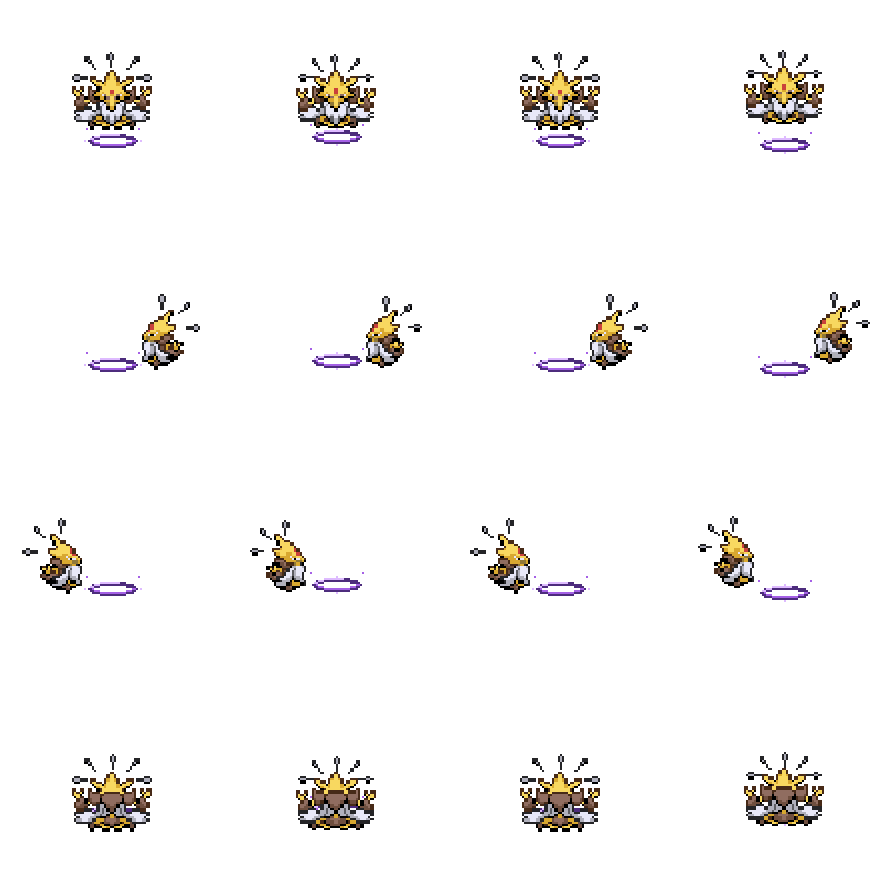
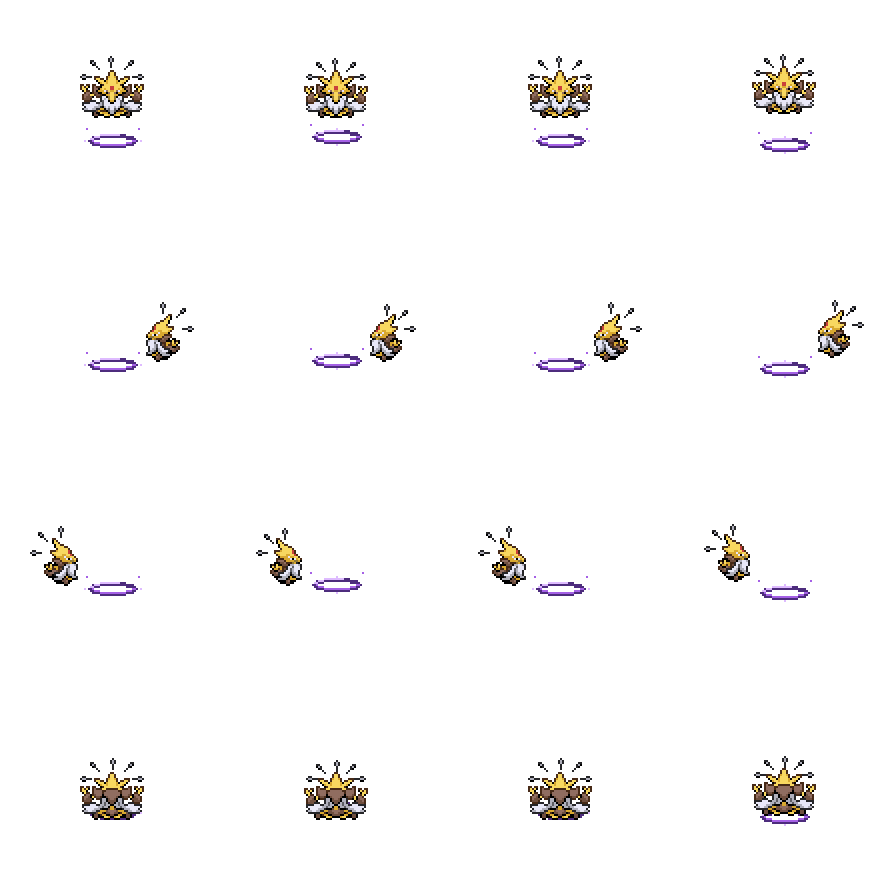
Restore Mega Alakazam mount to original sprite scale

diff --git a/tools/build_mega_alakazam_mount.py b/tools/build_mega_alakazam_mount.py
@@ -1,4 +1,4 @@
-"""Build the smaller Mega Alakazam with the approved seated/levitating pose.
+"""Build original-size Mega Alakazam with the approved seated/levitating pose.
 
 The supplied source and unchanged player ride pose use exact 2x pixels.
 Only the creature and psychic support are baked into runtime sheets.
@@ -13,14 +13,14 @@ from import_player_layered_sprites import write_texture_import
 ROOT = Path(__file__).resolve().parents[1]
 ASSETS = ROOT / "assets/mounts/mega_alakazam"
 FRAME = 112
-CREATURE_SIZE = 40
+CREATURE_SIZE = 32
 NEAREST = Image.Resampling.NEAREST
 DIRECTIONS = ("down", "left", "right", "up")
 # Center the unchanged 32px logical player frame in every direction. The
 # player's normal ground position anchors the rig; Alakazam and the ring move
-# around it. These translations retain the approved creature/rider spacing.
+# around it. Keep the creature centered and its rear head at the approved height.
 RIDER_POS = ((40, 40),) * 4
-MOUNT_POS = ((36, 26), (63, 34), (9, 34), (36, 41))
+MOUNT_POS = ((40, 28), (67, 38), (13, 38), (40, 43))
 
 
 def build() -> None:
@@ -38,6 +38,7 @@ def build() -> None:
             normalized.alpha_composite(original, (0, -2 if col % 2 else 0))
             assert normalized.getchannel("A").histogram()[255] == original.getchannel("A").histogram()[255]
             sprite = normalized.resize((CREATURE_SIZE, CREATURE_SIZE), NEAREST)
+            assert sprite.tobytes() == normalized.tobytes(), "Retain the original creature pixel grid."
             creature = Image.new("RGBA", (FRAME, FRAME))
             mx, my = MOUNT_POS[row]
             mount_bob = round(math.sin(phase * math.tau / 16))

diff --git a/assets/mounts/mega_alakazam/README.md b/assets/mounts/mega_alakazam/README.md
@@ -1,24 +1,24 @@
 # Mega Alakazam levitation mount
 
 Based on the supplied source sheet and approved seated levitation concept.
-Alakazam is now 40 logical pixels (80 physical pixels), down from 56/112,
-approximately 29% smaller. The player's exact 64×64 ride assets are retained.
+Alakazam uses the original 32 logical pixels (64 physical pixels), with no
+fractional scaling or uneven pixel blocks. The player's exact 64×64 ride assets are retained.
 The player's normal foot origin anchors every direction. Alakazam, the ring
-and rear mask are positioned around that origin, preserving the approved
-relative composition and the lower rear head position. Only the hover and
+and rear mask are positioned around that origin, retaining the creature's
+horizontal centers and the lower rear head position. Only the hover and
 small vertical animation bob lift the rider; turning never shifts them sideways.
 
 `source.png` is the user-supplied 512×256 sheet. Only the first four columns
 are used. `tools/build_mega_alakazam_mount.py` reproduces the three 896×896
 runtime sheets, with four directions and four 224×224 frames per direction.
-Pillow is required. Nearest-neighbor scaling preserves the pixel grid.
+Pillow is required. The source's exact 2× grid is reduced losslessly and restored
+at export, preserving every creature pixel at its original size.
 
 The psychic ring is baked into the mount, not the rider. The player retains
 their own 64×64 ride assets, clothing, hair and skin. A dedicated rear
 foreground sheet and matching binary rider mask keep the creature's full
 head/body ahead of the rider and the floating spoons behind them. Each whole
-directional layout is shifted to the player's normal foot anchor. These shifts preserve
-the approved creature/rider spacing.
+directional layout uses the player's normal foot anchor.
 
 To try without logging in, open `tools/mega_alakazam_mount_demo.tscn` in Godot
 and run the scene (F6). Move/turn with WASD or arrow keys, toggle animation

diff --git a/CHANGELOG.md b/CHANGELOG.md
@@ -2,6 +2,8 @@
 
 ## Unreleased
 
+- Restore Mega Alakazam's original 64×64 sprite scale to keep its pixels even, retaining the rider's foot anchor and levitation pose.
+
 - Align the Gift Store Gem and voucher balances in matching rows with equal icon sizes and clearer spacing.
 
 - Anchor the Mega Alakazam rider to the player's normal foot position and ground shadow in every direction, preserving the smaller mount and approved pose.
